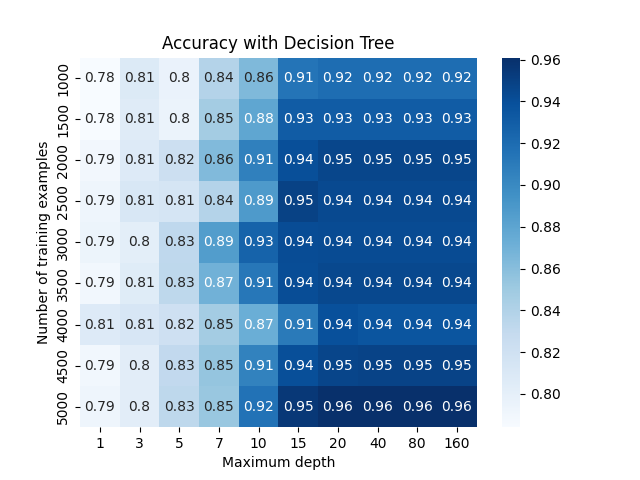
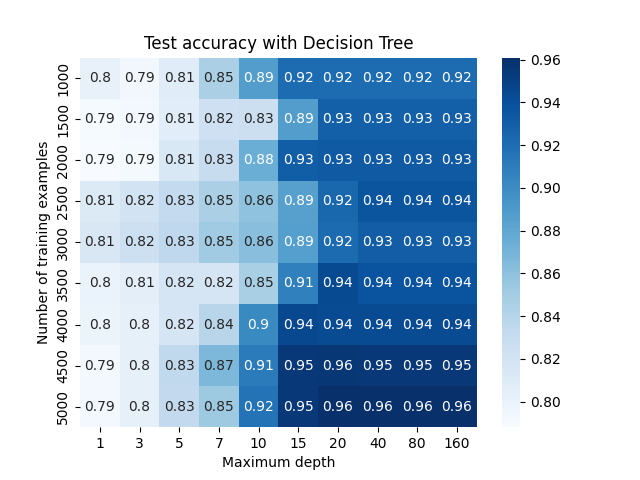
Finish C1

diff --git a/classification_problem_1/src/analysis.py b/classification_problem_1/src/analysis.py
@@ -6,6 +6,8 @@ import seaborn as sns
 from sklearn.neighbors import KNeighborsClassifier
 from sklearn.tree import DecisionTreeClassifier
 from sklearn.svm import SVC
+from sklearn.neural_network import MLPClassifier
+from sklearn.ensemble import GradientBoostingClassifier
 from sklearn.metrics import accuracy_score
 
 from config import TRAIN_CSV_PATH, TEST_CSV_PATH
@@ -37,8 +39,9 @@ def plot_points(points, groups):
 
 def train_model(model, x_train, y_train, x_test, y_test):
     model.fit(x_train, y_train)
-    y_pred = model.predict(x_test)
-    return y_pred, accuracy_score(y_test, y_pred)
+    y_train_pred = model.predict(x_train)
+    y_test_pred = model.predict(x_test)
+    return accuracy_score(y_train, y_train_pred), accuracy_score(y_test, y_test_pred)
 
 def plot_model(model, num_points=10**5):
     points = generate_random_points(num_points)
@@ -49,19 +52,32 @@ def analysis_knn():
     ns = [1000, 1500, 2000, 2500, 3000, 3500, 4000, 4500, 5000]
     ks = [1, 3, 5, 7, 9, 11, 13, 15, 17, 19, 21]
     acc_matrix = []
+    train_acc_matrix = []
     for n in ns:
         accs = []
+        train_accs = []
         for k in ks:
             model = KNeighborsClassifier(n_neighbors=k)
-            _, acc = train_model(model, x_train[:n], y_train[:n], x_test, y_test)
+            train_acc, acc = train_model(model, x_train[-n:], y_train[-n:], x_test, y_test)
             accs.append(float(acc))
+            train_accs.append(train_acc)
         acc_matrix.append(accs)
+        train_acc_matrix.append(train_accs)
+
     acc_matrix = np.array(acc_matrix)
     sns.heatmap(acc_matrix, xticklabels=ks, yticklabels=ns, annot=True, cmap="Blues")
-    plt.xlabel("Value of K")
+    plt.xlabel("Number of neighbors")
     plt.ylabel("Number of training examples")
-    plt.title("Accuracy with KNN")
+    plt.title("Test accuracy with KNN")
     plt.savefig("knn_analysis.png")
+    plt.clf()
+
+    train_acc_matrix = np.array(train_acc_matrix)
+    sns.heatmap(train_acc_matrix, xticklabels=ks, yticklabels=ns, annot=True, cmap="Blues")
+    plt.xlabel("Number of neighbors")
+    plt.ylabel("Number of training examples")
+    plt.title("Train accuracy with KNN")
+    plt.savefig("knn_analysis_train.png")
     plt.clf()
 
     for k in [1, 9, 21]:
@@ -76,19 +92,32 @@ def analysis_dt():
     ns = [1000, 1500, 2000, 2500, 3000, 3500, 4000, 4500, 5000]
     ds = [1, 3, 5, 7, 10, 15, 20, 40, 80, 160]
     acc_matrix = []
+    train_acc_matrix = []
     for n in ns:
         accs = []
+        train_accs = []
         for d in ds:
             model = DecisionTreeClassifier(max_depth=d, random_state=0)
-            _, acc = train_model(model, x_train[:n], y_train[:n], x_test, y_test)
+            train_acc, acc = train_model(model, x_train[-n:], y_train[-n:], x_test, y_test)
             accs.append(float(acc))
+            train_accs.append(train_acc)
         acc_matrix.append(accs)
+        train_acc_matrix.append(train_accs)
+    
     acc_matrix = np.array(acc_matrix)
     sns.heatmap(acc_matrix, xticklabels=ds, yticklabels=ns, annot=True, cmap="Blues")
     plt.xlabel("Maximum depth")
     plt.ylabel("Number of training examples")
-    plt.title("Accuracy with Decision Tree")
+    plt.title("Test accuracy with Decision Tree")
     plt.savefig("dt_analysis.png")
+    plt.clf()
+
+    train_acc_matrix = np.array(train_acc_matrix)
+    sns.heatmap(train_acc_matrix, xticklabels=ds, yticklabels=ns, annot=True, cmap="Blues")
+    plt.xlabel("Maximum depth")
+    plt.ylabel("Number of training examples")
+    plt.title("Train accuracy with Decision Tree")
+    plt.savefig("dt_analysis_train.png")
     plt.clf()
 
     for d in ds:
@@ -120,19 +149,32 @@ def analysis_svm():
 
     ks = ["linear", "poly", "rbf", "sigmoid"]
     acc_matrix = []
+    train_acc_matrix = []
     for n in ns:
         accs = []
+        train_accs = []
         for k in ks:
             model = SVC(kernel=k)
-            _, acc = train_model(model, x_train[:n], y_train[:n], x_test, y_test)
+            train_acc, acc = train_model(model, x_train[-n:], y_train[-n:], x_test, y_test)
             accs.append(float(acc))
+            train_accs.append(train_acc)
         acc_matrix.append(accs)
+        train_acc_matrix.append(train_accs)
+
     acc_matrix = np.array(acc_matrix)
     sns.heatmap(acc_matrix, xticklabels=ks, yticklabels=ns, annot=True, cmap="Blues")
     plt.xlabel("Kernel")
     plt.ylabel("Number of training examples")
-    plt.title("Accuracy with SVM")
+    plt.title("Test accuracy with SVM")
     plt.savefig("svm_analysis.png")
+    plt.clf()
+
+    train_acc_matrix = np.array(train_acc_matrix)
+    sns.heatmap(train_acc_matrix, xticklabels=ks, yticklabels=ns, annot=True, cmap="Blues")
+    plt.xlabel("Kernel")
+    plt.ylabel("Number of training examples")
+    plt.title("Train accuracy with SVM")
+    plt.savefig("svm_analysis_train.png")
     plt.clf()
 
     for k in ks:
@@ -143,4 +185,179 @@ def analysis_svm():
         plt.savefig("svm_k_{}.png".format(k))
         plt.clf()
 
-analysis_svm()
+def analysis_nn():
+    ns = [2000, 3000, 4000, 5000]
+    hs = [8, 16, 32, 64, 128]
+    acc_matrix = []
+    train_acc_matrix = []
+    for n in ns:
+        accs = []
+        train_accs = []
+        for h in hs:
+            model = MLPClassifier(hidden_layer_sizes=(h, h, ), max_iter=10**5, random_state=0)
+            train_acc, acc = train_model(model, x_train[-n:], y_train[-n:], x_test, y_test)
+            accs.append(float(acc))
+            train_accs.append(train_acc)
+        acc_matrix.append(accs)
+        train_acc_matrix.append(train_accs)
+    acc_matrix = np.array(acc_matrix)
+    sns.heatmap(acc_matrix, xticklabels=hs, yticklabels=ns, annot=True, cmap="Blues")
+    plt.xlabel("Hidden layers' size")
+    plt.ylabel("Number of training examples")
+    plt.title("Test accuracy with Neural Network with 2 layers")
+    plt.savefig("nn_analysis.png")
+    plt.clf()
+
+    train_acc_matrix = np.array(train_acc_matrix)
+    sns.heatmap(train_acc_matrix, xticklabels=hs, yticklabels=ns, annot=True, cmap="Blues")
+    plt.xlabel("Hidden layers' size")
+    plt.ylabel("Number of training examples")
+    plt.title("Train accuracy with Neural Network with 2 layers")
+    plt.savefig("nn_analysis_train.png")
+    plt.clf()
+
+    for h in hs:
+        model = MLPClassifier(hidden_layer_sizes=(h, h, ), max_iter=10**5, random_state=0)
+        model.fit(x_train, y_train)
+        plot_model(model)
+        plt.title("Neural Network with 2 layers of size {}".format(h))
+        plt.savefig("nn_h_{}.png".format(h))
+        plt.clf()
+
+# Source: https://stackoverflow.com/questions/46912557/is-it-possible-to-get-test-scores-for-each-iteration-of-mlpclassifier
+def analysis_nn_2():
+    mlp = MLPClassifier(hidden_layer_sizes=(128, 128,), max_iter=10**5, random_state=0)
+    num_samples = x_train.shape[0]
+    num_epochs = 4000
+    batch_size = 500
+    classes = np.unique(y_train)
+    iterations_per_print = 10
+
+    epochs = []
+    scores_train = []
+    scores_test = []
+    for epoch in range(num_epochs):
+        random_perm = np.random.permutation(num_samples)
+        mini_batch_index = 0
+        while True:
+            indices = random_perm[mini_batch_index: mini_batch_index + batch_size]
+            mlp.partial_fit(x_train[indices], y_train[indices], classes=classes)
+            mini_batch_index += batch_size
+            if mini_batch_index >= num_samples:
+                break
+
+        if epoch % iterations_per_print == 0:
+            train_score = mlp.score(x_train, y_train)
+            test_score = mlp.score(x_test, y_test)
+            scores_train.append(train_score)
+            scores_test.append(test_score)
+            epochs.append(epoch)
+            print("Iteration {}. Acc in Train: {}. Acc in Test: {}".format(epoch, train_score, test_score))
+
+    plt.plot(epochs, scores_train, label="Test")
+    plt.plot(epochs, scores_test, label="Train")
+    plt.xlabel("Epoch")
+    plt.ylabel("Accuracy")
+    plt.legend()
+    plt.title("Neural Network with 2 layers of size 128")
+    plt.savefig("nn_analysis_2.png")
+    plt.clf()
+
+    plot_model(mlp)
+    plt.title("Neural Network with 2 layers of size 256 (4000 epochs)")
+    plt.savefig("nn_h_256_long.png")
+    plt.clf()
+
+    print(accuracy_score(y_test, mlp.predict(x_test)))
+
+def analysis_gbc():
+    ns = [2000, 3000, 4000, 5000]
+    ks = [32, 64, 128, 256, 512, 1024, 2048, 5096, 10192]
+    acc_matrix = []
+    train_acc_matrix = []
+    for n in ns:
+        accs = []
+        train_accs = []
+        for k in ks:
+            model = GradientBoostingClassifier(n_estimators=k)
+            train_acc, acc = train_model(model, x_train[-n:], y_train[-n:], x_test, y_test)
+            accs.append(float(acc))
+            train_accs.append(train_acc)
+        acc_matrix.append(accs)
+        train_acc_matrix.append(train_accs)
+    acc_matrix = np.array(acc_matrix)
+    sns.heatmap(acc_matrix, xticklabels=ks, yticklabels=ns, annot=True, cmap="Blues")
+    plt.xlabel("Number of trees")
+    plt.ylabel("Number of training examples")
+    plt.title("Test accuracy with Gradient Boosting Classifier")
+    plt.savefig("gbc_analysis.png")
+    plt.clf()
+
+    train_acc_matrix = np.array(train_acc_matrix)
+    sns.heatmap(train_acc_matrix, xticklabels=ks, yticklabels=ns, annot=True, cmap="Blues")
+    plt.xlabel("Number of trees")
+    plt.ylabel("Number of training examples")
+    plt.title("Train accuracy with Gradient Boosting Classifier")
+    plt.savefig("gbc_analysis_train.png")
+    plt.clf()
+
+    for k in ks:
+        model = GradientBoostingClassifier(n_estimators=k)
+        model.fit(x_train, y_train)
+        plot_model(model)
+        plt.title("Gradient Boosting Classifier with {} trees".format(k))
+        plt.savefig("gbc_k_{}.png".format(k))
+        plt.clf()
+
+def analysis_gbc_2():
+    n_estimators = [32, 64, 128, 256, 512, 1024, 2048]
+    scores_train = []
+    scores_test = []
+    for n in n_estimators:
+        model = GradientBoostingClassifier(n_estimators=n)
+        model.fit(x_train, y_train)
+        scores_train.append(accuracy_score(y_train, model.predict(x_train)))
+        scores_test.append(accuracy_score(y_test, model.predict(x_test)))
+
+    plt.plot(n_estimators, scores_train, label="Train")
+    plt.plot(n_estimators, scores_test, label="Test")
+    plt.xlabel("Iteration")
+    plt.xticks(n_estimators, ["", "", "", 256, 512, 1024, 2048])
+    plt.ylabel("Accuracy")
+    plt.legend()
+    plt.title("Gradient Boosting Classifier")
+    plt.savefig("gbc_analysis_2.png")
+    plt.clf()
+
+def comparison():
+    models={
+        "DT": DecisionTreeClassifier(max_depth=40),
+        "KNN": KNeighborsClassifier(n_neighbors=9),
+        "SVM": SVC(kernel="rbf"),
+        "NN": MLPClassifier(hidden_layer_sizes=(128, 128), batch_size=500, learning_rate_init=0.01, max_iter=10**8),
+        "GB": GradientBoostingClassifier(n_estimators=2048)
+    }
+    model_names = list(models.keys())
+    scores_train = []
+    scores_test = []
+    for name in model_names:
+        print("Training", name)
+        model = models[name]
+        model.fit(x_train, y_train)
+        scores_train.append(accuracy_score(y_train, model.predict(x_train)))
+        scores_test.append(accuracy_score(y_test, model.predict(x_test)))
+    
+    x = np.array(range(len(model_names)))
+    width = 0.2
+    plt.bar(x-width/2, scores_train, width=width, label="Train accuracy")
+    plt.bar(x+width/2, scores_test, width=width, label="Test accuracy")
+    for i, v in enumerate(scores_test):
+        plt.text(i, v, "{:.2f}".format(v))
+    for i, v in enumerate(scores_train):
+        plt.text(i-0.3, v, "{:.2f}".format(v))
+    plt.xticks(x, model_names)
+    plt.ylim([0, 1.3])
+    plt.legend()
+    plt.savefig("comparison.png")
+
+comparison()
